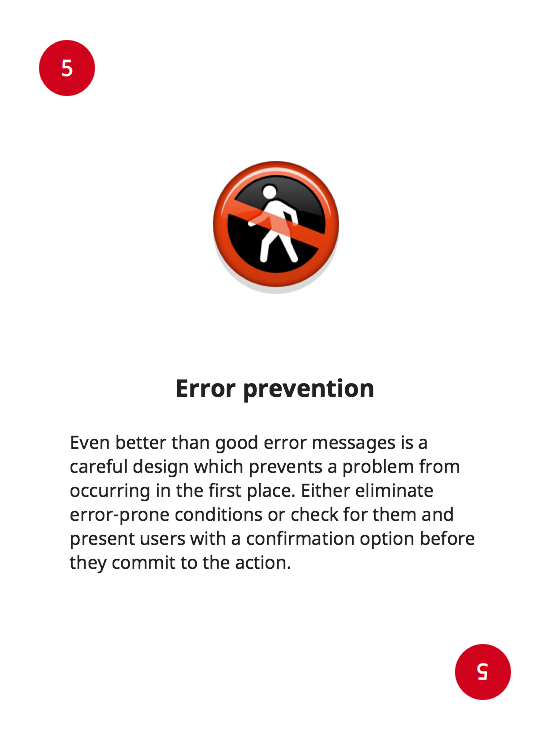
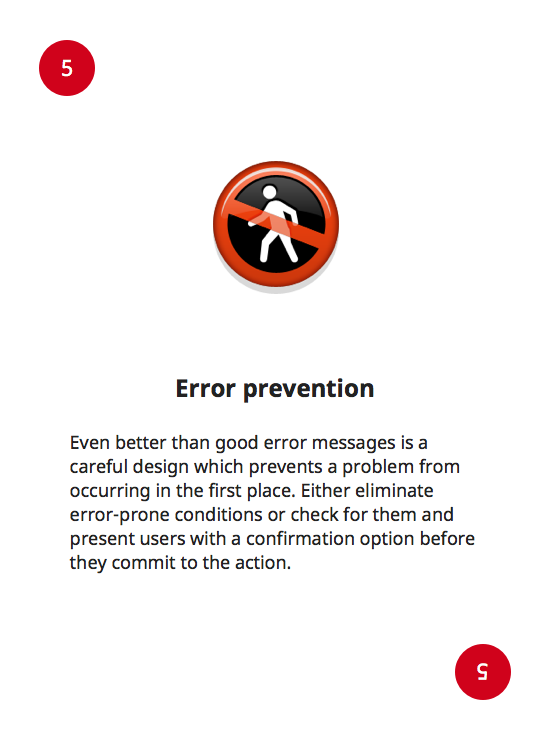
Cards and animation polished
- Some basic texts added
- Ready to play

diff --git a/index.html b/index.html
@@ -9,114 +9,135 @@
 
 	<link rel="stylesheet" href="css/resets.css">
 	<link rel="stylesheet" href="css/style.css">
+	<link href='https://fonts.googleapis.com/css?family=Noto+Sans:400,700' rel='stylesheet' type='text/css'>
 </head>
 <body>
 	<!--[if lt IE 8]>
 	<p class="browserupgrade">You are using an <strong>outdated</strong> browser. Please <a href="http://browsehappy.com/">upgrade your browser</a> to improve your experience.</p>
 	<![endif]-->
 
-	<div class="flip-container" id="1">
-		<div class="flipper">
-			<div class="front">
-			</div>
-			<div class="back">
-				<img src="faces/1.png">
+	<div id="cards-container">
+
+		<div class="titlings">
+			<h1>UXD Heuristics Card Game</h1>
+			<p>A game for quick Heuristics dynamics with your team</p>
+			<small>Based on Jacob Nielsen's <a href="https://www.nngroup.com/articles/ten-usability-heuristics/" target="_blank">10 Usability Heuristics for User Interface Design</a></small>
+		</div>
+
+		<div class="flip-container" id="1">
+			<div class="flipper">
+				<div class="front">
+				</div>
+				<div class="back">
+					<img src="faces/1.png">
+				</div>
 			</div>
 		</div>
-	</div>
 
-	<div class="flip-container" id="1">
-		<div class="flipper">
-			<div class="front">
-			</div>
-			<div class="back">
-				<img src="faces/2.png">
+		<div class="flip-container" id="2">
+			<div class="flipper">
+				<div class="front">
+				</div>
+				<div class="back">
+					<img src="faces/2.png">
+				</div>
 			</div>
 		</div>
-	</div>
 
-	<div class="flip-container" id="1">
-		<div class="flipper">
-			<div class="front">
-			</div>
-			<div class="back">
-				<img src="faces/3.png">
+		<div class="flip-container" id="3">
+			<div class="flipper">
+				<div class="front">
+				</div>
+				<div class="back">
+					<img src="faces/3.png">
+				</div>
 			</div>
 		</div>
-	</div>
 
-	<div class="flip-container" id="1">
-		<div class="flipper">
-			<div class="front">
-			</div>
-			<div class="back">
-				<img src="faces/4.png">
+		<div class="flip-container" id="4">
+			<div class="flipper">
+				<div class="front">
+				</div>
+				<div class="back">
+					<img src="faces/4.png">
+				</div>
 			</div>
 		</div>
-	</div>
 
-	<div class="flip-container" id="1">
-		<div class="flipper">
-			<div class="front">
-			</div>
-			<div class="back">
-				<img src="faces/5.png">
+		<div class="flip-container" id="5">
+			<div class="flipper">
+				<div class="front">
+				</div>
+				<div class="back">
+					<img src="faces/5.png">
+				</div>
 			</div>
 		</div>
-	</div>
 
-	<div class="flip-container" id="1">
-		<div class="flipper">
-			<div class="front">
-			</div>
-			<div class="back">
-				<img src="faces/6.png">
+		<div class="flip-container" id="6">
+			<div class="flipper">
+				<div class="front">
+				</div>
+				<div class="back">
+					<img src="faces/6.png">
+				</div>
 			</div>
 		</div>
-	</div>
 
-	<div class="flip-container" id="1">
-		<div class="flipper">
-			<div class="front">
-			</div>
-			<div class="back">
-				<img src="faces/7.png">
+		<div class="flip-container" id="7">
+			<div class="flipper">
+				<div class="front">
+				</div>
+				<div class="back">
+					<img src="faces/7.png">
+				</div>
 			</div>
 		</div>
-	</div>
 
-	<div class="flip-container" id="1">
-		<div class="flipper">
-			<div class="front">
-			</div>
-			<div class="back">
-				<img src="faces/8.png">
+		<div class="flip-container" id="8">
+			<div class="flipper">
+				<div class="front">
+				</div>
+				<div class="back">
+					<img src="faces/8.png">
+				</div>
 			</div>
 		</div>
-	</div>
 
-	<div class="flip-container" id="1">
-		<div class="flipper">
-			<div class="front">
-			</div>
-			<div class="back">
-				<img src="faces/9.png">
+		<div class="flip-container" id="9">
+			<div class="flipper">
+				<div class="front">
+				</div>
+				<div class="back">
+					<img src="faces/9.png">
+				</div>
 			</div>
 		</div>
-	</div>
 
-	<div class="flip-container" id="1">
-		<div class="flipper">
-			<div class="front">
-			</div>
-			<div class="back">
-				<img src="faces/10.png">
+		<div class="flip-container" id="10">
+			<div class="flipper">
+				<div class="front">
+				</div>
+				<div class="back">
+					<img src="faces/10.png">
+				</div>
 			</div>
 		</div>
+
+		<div class="credits">
+			<div class="how_to">
+				<p><strong>How to use it?</strong></p>
+				<p>We created this card game for regular usability checks on critical milestones of a product's User Journey. Once you have a set of milestones in your Journey mapped and defined, pick a random card and use that heuristic as a 'hat' to check for improvement opportunities in the selected journey milestone. Or use it however you like.</p>
+			</div>
+
+			<small>Copyright © 2005 by Jakob Nielsen. ISSN 1548-5552</small><br>
+			<small>Card game adaptation by <a href="http://raidho.mx/" target="_blank">Raidho</a></small>
+		</div>
+
 	</div>
 
-	<script src="https://ajax.googleapis.com/ajax/libs/jquery/1.11.3/jquery.min.js"></script>
-	<script>window.jQuery || document.write('<script src="js/vendor/jquery-1.11.3.min.js"><\/script>')</script>
+	<script src="js/flipper.js"></script>
 
 </body>
+
 </html>

diff --git a/css/style.css b/css/style.css
@@ -1,36 +1,75 @@
+body {
+	font-family: 'Noto Sans', sans-serif;
+	text-align: center;
+}
+
+#cards-container {
+	width: 95%;
+	margin: 0 auto;
+}
+
+.titlings {
+	overflow: auto;
+	margin: 60px 0;
+}
+
+.credits {
+	overflow: auto;
+	margin: 60px 0;
+}
+
+.how_to {
+	width: 60%;
+	margin: 0 auto;
+	margin-bottom: 40px;
+}
+
+h1 {font-size: 3em; margin-bottom: 30px}
+p {margin-bottom: 6px; line-height: 1.2em;}
+small {font-size: .7em; opacity: .4;}
+a {font-weight: bold;}
+strong {font-weight: bold;}
+
 /* entire container, keeps perspective */
 .flip-container {
 	perspective: 1000;
 	display: inline-block;
 	margin: 10px;
+	transition: 0.3s;
+	border: 3px solid white;
 }
-	/* flip the pane when hovered */
-	.flip-container:hover .flipper, .flip-container.hover .flipper {
-		transform: rotateY(180deg);
-	}
+
+.flip-container:hover {
+	border: 3px solid #3FD7F3;
+}
 
 .flip-container, .front, .back {
-	/*width: 314px;
-	height: 422px;*/
-	width: 290px;
-	height: 391px;
+	width: 261px;
+	height: 352px;
 }
 
 /* flip speed goes here */
 .flipper {
 	transition: 0.6s;
 	transform-style: preserve-3d;
-
 	position: relative;
+	cursor: pointer;
+}
+
+.back img {
+	width: 100%;
+	-webkit-box-shadow: 0px 7px 20px 0px rgba(71,71,71,.8);
+	-moz-box-shadow: 0px 7px 20px 0px rgba(71,71,71,.8);
+	box-shadow: 0px 7px 20px 0px rgba(71,71,71,.8);
 }
 
 /* hide back of pane during swap */
 .front, .back {
 	backface-visibility: hidden;
-
 	position: absolute;
 	top: 0;
 	left: 0;
+	text-align:center;
 }
 
 /* front pane, placed above back */
@@ -45,5 +84,20 @@
 /* back, initially hidden pane */
 .back {
 	transform: rotateY(180deg);
-	border: 1px solid #f0f0f0;
+}
+
+/* Flip cards by adding these classes */
+
+.flip-container.flip .flipper {
+	transform: rotateY(180deg);
+	z-index: 10;
+	transition: all 0.5s ease;
+}
+
+.flip-container.flip .back,
+.flip-container.flip .front {
+	width: 150%;
+	height: 150%;
+	top: -80px;
+	left: -25%;
 }

diff --git a/js/flipper.js b/js/flipper.js
@@ -1,0 +1,10 @@
+
+var flippers = document.getElementsByClassName("flip-container");
+
+var classFlip = function() {
+	this.classList.toggle("flip");
+};
+
+for (var i = 0; i < flippers.length; i++) {
+	flippers[i].addEventListener('click', classFlip, false);
+}
